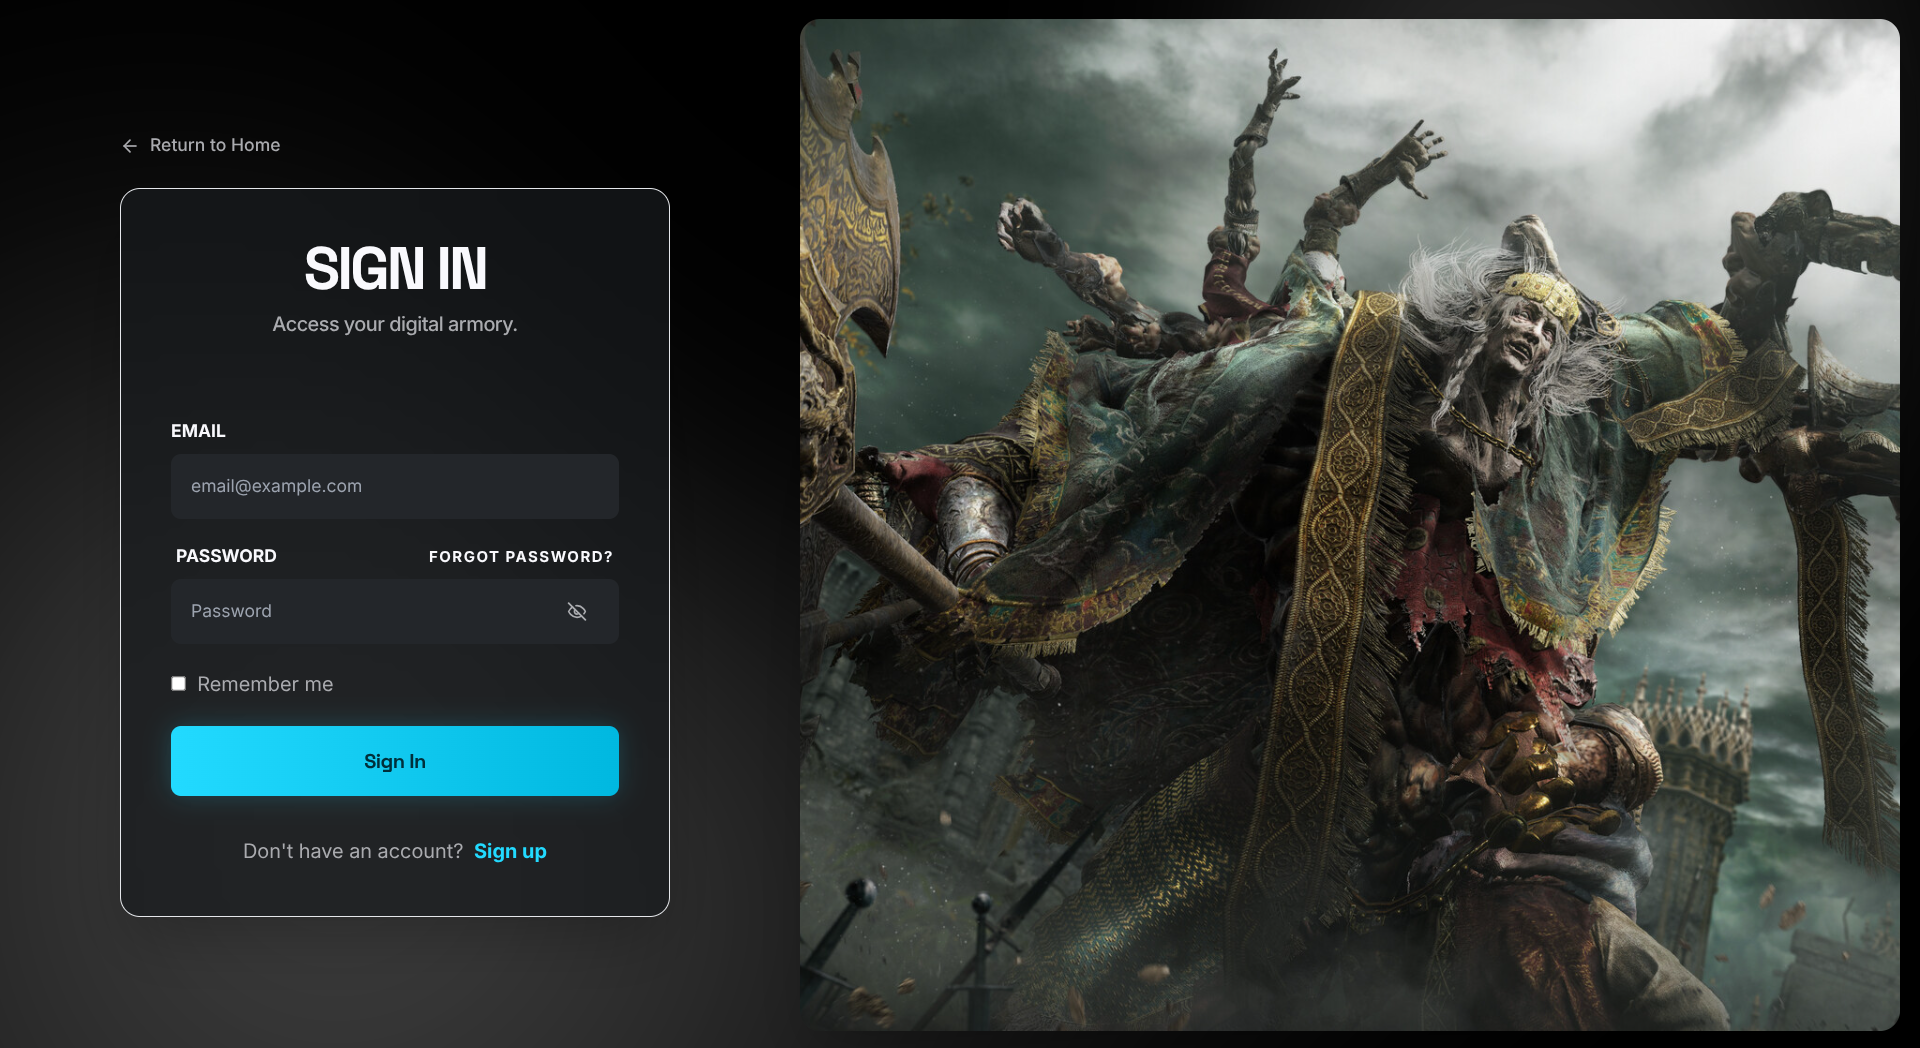
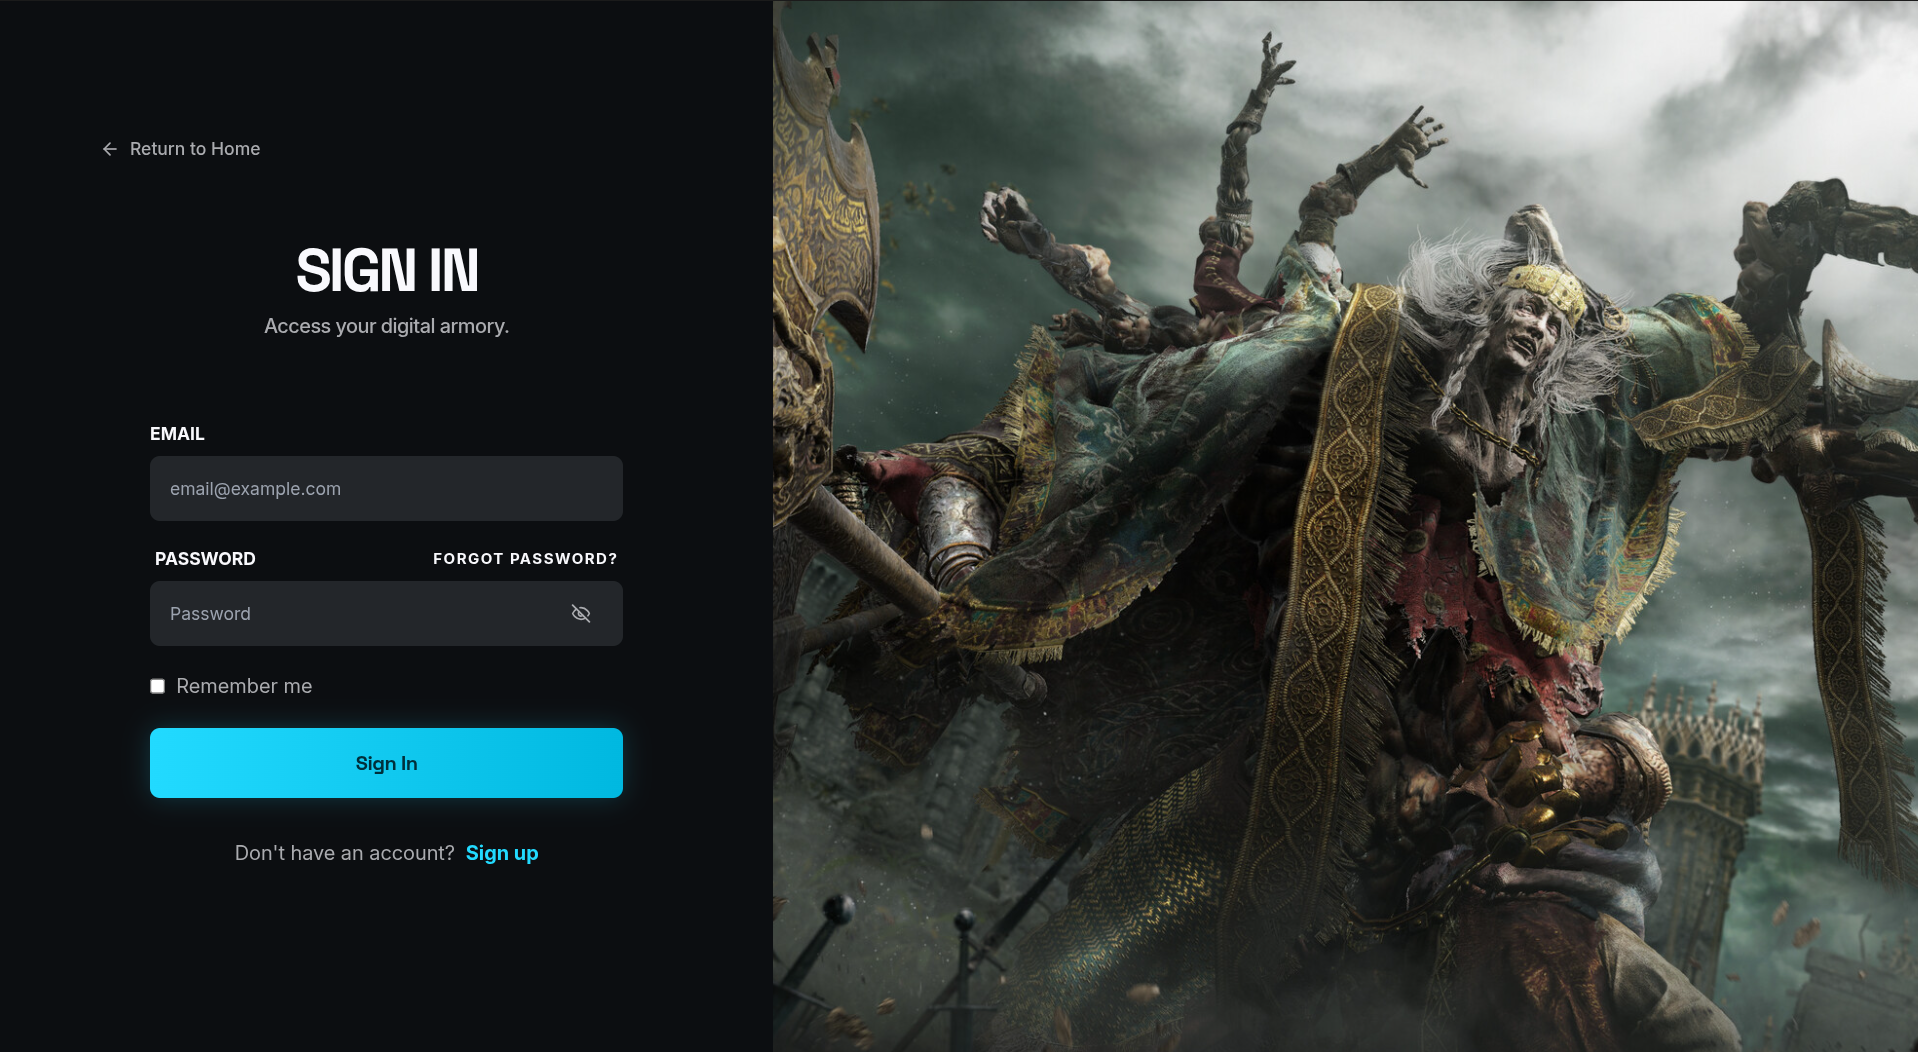
feat: improve login page

diff --git a/authentication/resources/views/auth/login.blade.php b/authentication/resources/views/auth/login.blade.php
@@ -1,5 +1,5 @@
 <x-condensation-guest-layout>
-  <div class="w-full h-full flex gap-6 items-center">
+  <div class="w-full h-full flex items-center">
     <div class="w-1/2 mx-20">
       <a href="{{ config('app.frontend_url', '/') }}"
         class="mb-6 inline-flex items-center gap-2 text-sm font-medium text-on-surface-variant transition-colors hover:text-on-surface">
@@ -9,7 +9,7 @@
         </svg>
         {{ __('Return to Home') }}
       </a>
-      <div class="glass-panel rounded-2xl border border-outline-variant/10 p-10 shadow-2xl">
+      <div class="p-10">
         <header class="mb-10 text-center">
           <h1 class="mb-2 font-headline text-5xl font-black uppercase tracking-tighter text-on-surface">Sign In</h1>
           <p class="font-medium tracking-tight text-on-surface-variant">Access your digital armory.</p>
@@ -87,7 +87,7 @@
       </div>
     </div>
     <div class="w-full h-full object-fill">
-      <img src="https://shared.akamai.steamstatic.com/store_item_assets/steam/apps/1245620/ss_b1b91299d7e4b94201ac840aa64de54d9f5cb7f3.1920x1080.jpg?t=1767883716" alt="" class="h-full w-full object-cover rounded-2xl shadow-2xl">
+      <img src="https://shared.akamai.steamstatic.com/store_item_assets/steam/apps/1245620/ss_b1b91299d7e4b94201ac840aa64de54d9f5cb7f3.1920x1080.jpg?t=1767883716" alt="" class="h-full w-full object-cover">
     </div>
   </div>
 </x-condensation-guest-layout>

diff --git a/authentication/resources/views/auth/register.blade.php b/authentication/resources/views/auth/register.blade.php
@@ -1,7 +1,7 @@
 <x-condensation-guest-layout>
-  <div class="w-full h-full flex gap-6 items-center">
+  <div class="w-full h-full flex items-center">
     <div class="w-full h-full object-fill">
-      <img src="https://shared.fastly.steamstatic.com/store_item_assets/steam/apps/2399830/ss_f54032df135de28a4f4880057cd48c1c8b259870.1920x1080.jpg?t=1766710980" alt="" class="h-full w-full object-cover rounded-2xl shadow-2xl">
+      <img src="https://shared.fastly.steamstatic.com/store_item_assets/steam/apps/2399830/ss_f54032df135de28a4f4880057cd48c1c8b259870.1920x1080.jpg?t=1766710980" alt="" class="h-full w-full object-cover">
     </div>
     <div class="w-1/2 mx-20">
       <a href="{{ config('app.frontend_url', '/') }}"
@@ -12,7 +12,7 @@
         </svg>
         {{ __('Return to Home') }}
       </a>
-      <div class="glass-panel rounded-2xl border border-outline-variant/10 p-10 shadow-2xl">
+      <div class="p-10">
     <header class="mb-8 text-center">
       <h1 class="mb-2 font-headline text-5xl font-black uppercase tracking-tighter text-on-surface">Sign Up</h1>
       <p class="font-medium tracking-tight text-on-surface-variant">Forge your account. Enter the armory.</p>

diff --git a/authentication/resources/views/components/condensation-guest-layout.blade.php b/authentication/resources/views/components/condensation-guest-layout.blade.php
@@ -155,7 +155,7 @@
   </script>
 </head>
 <body class="font-body antialiased text-on-surface"
-      style="background-image: url('https://media.discordapp.net/attachments/1152679908976377997/1496023265511080007/bg.png?ex=69e85fbd&is=69e70e3d&hm=ddc55c6a2d8ba222ff6d929ca231e3ec002df29cb217d1ead9e874f374b088e9&=&format=webp&quality=lossless'); background-size: cover; background-position: center; background-repeat: no-repeat; background-attachment: fixed;">
+      style="background-color: #0c0e11;">
 
   <!-- Ambient glow blobs -->
   <div class="pointer-events-none fixed inset-0 -z-10 overflow-hidden">
@@ -164,7 +164,7 @@
   </div>
 
   <div class="flex min-h-screen flex-col">
-    <main class="flex grow items-center justify-center p-4 h-screen">
+    <main class="flex grow items-center justify-center h-screen">
       <div class="z-10 w-full h-full">
         {{ $slot }}
       </div>
